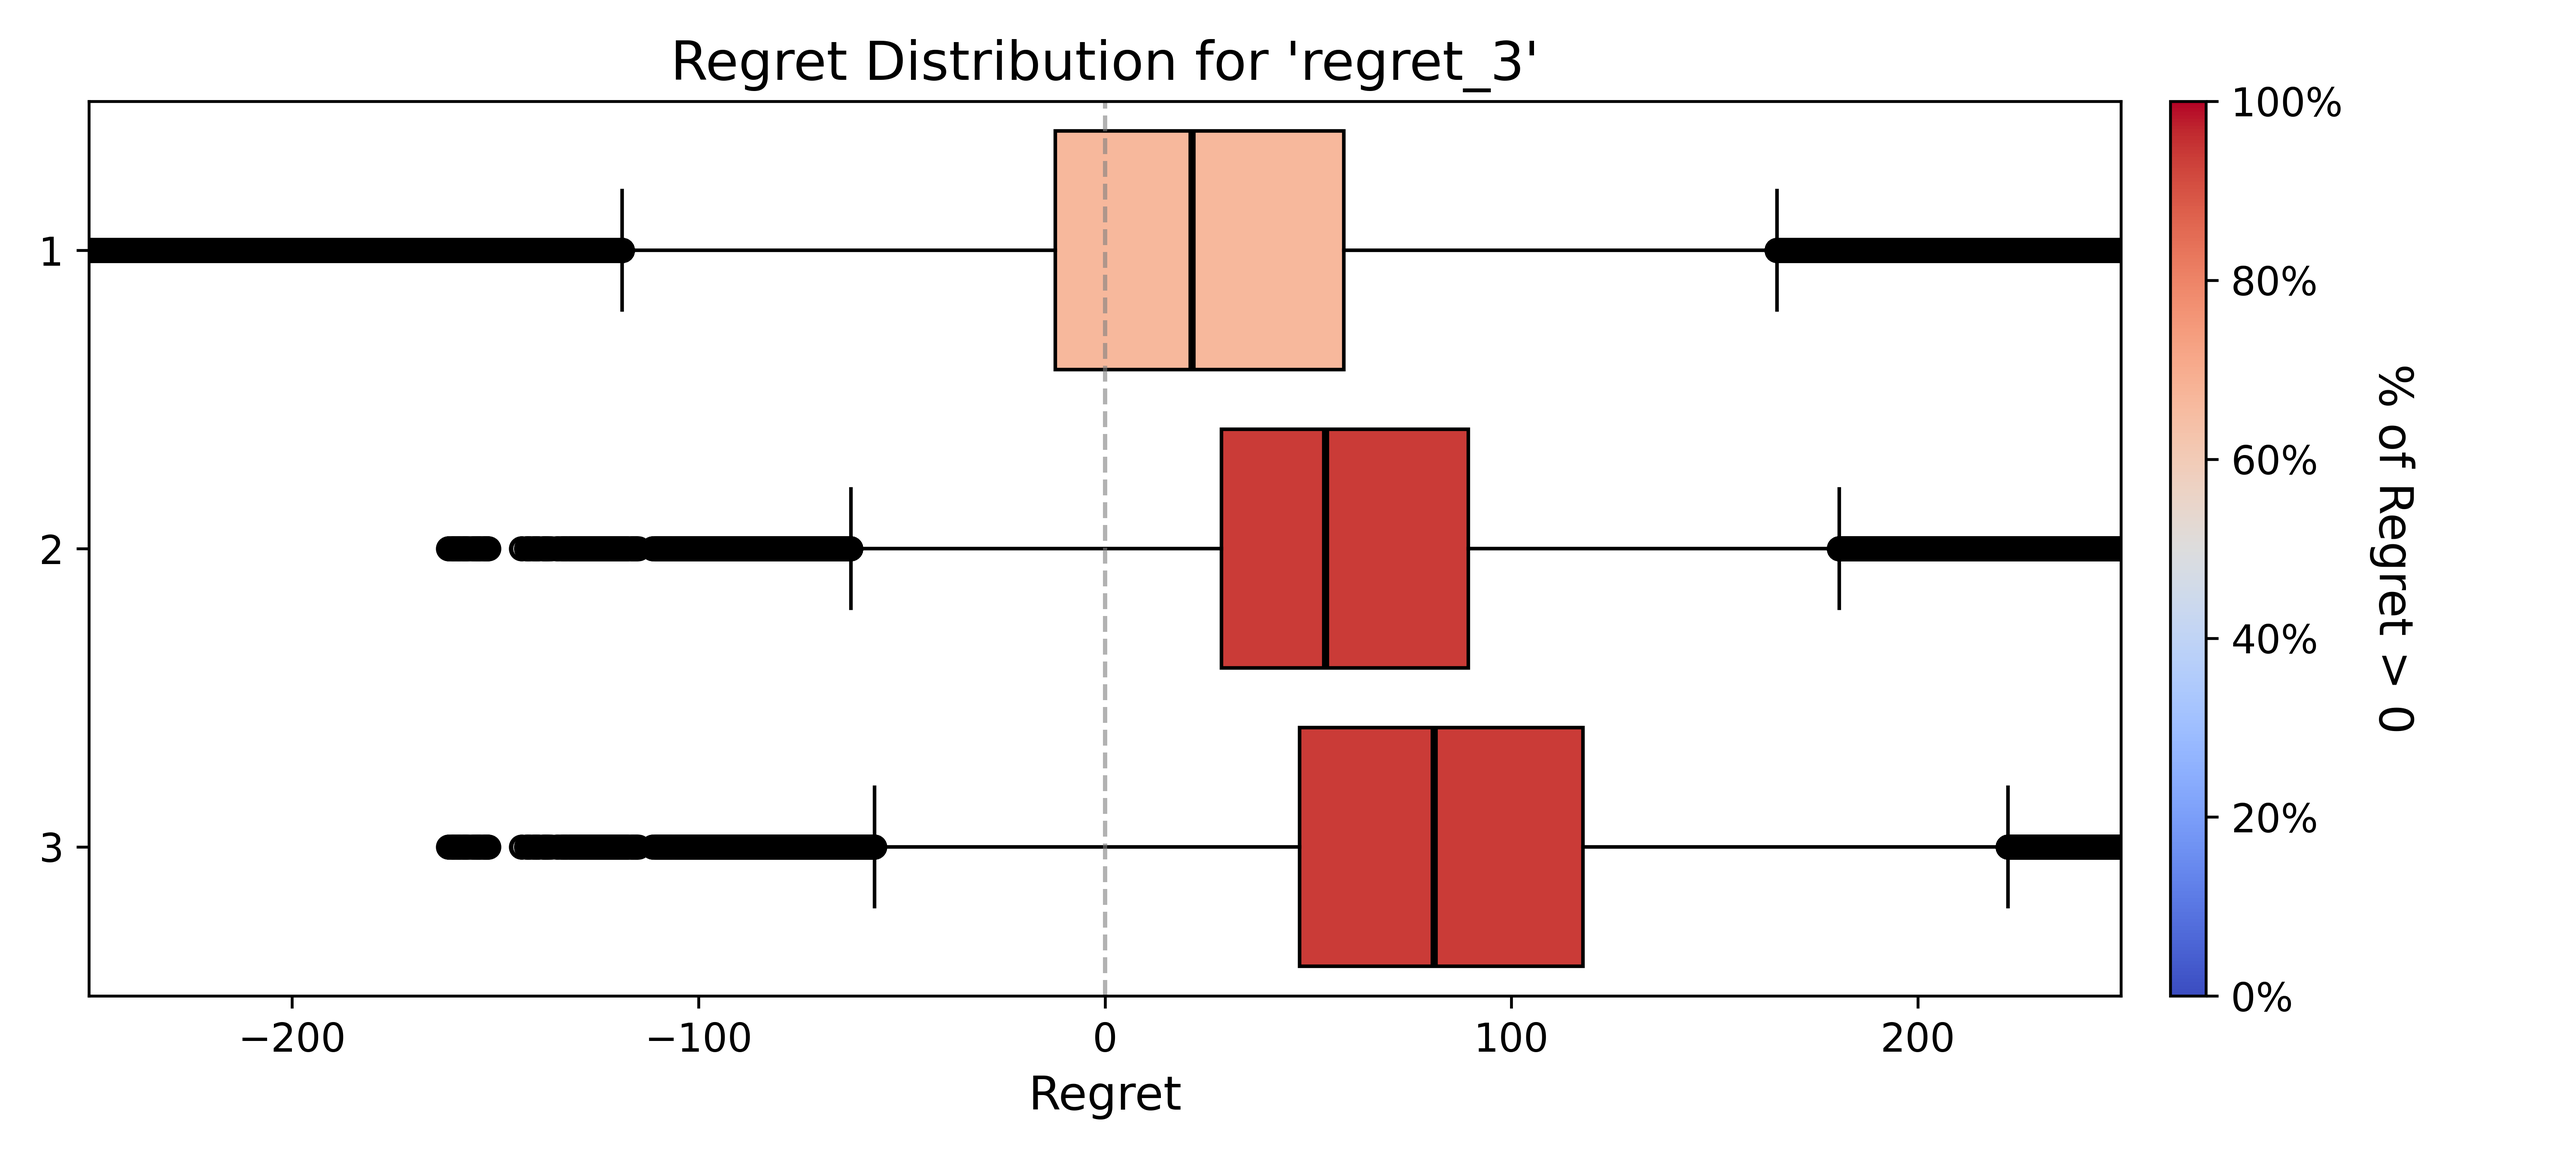
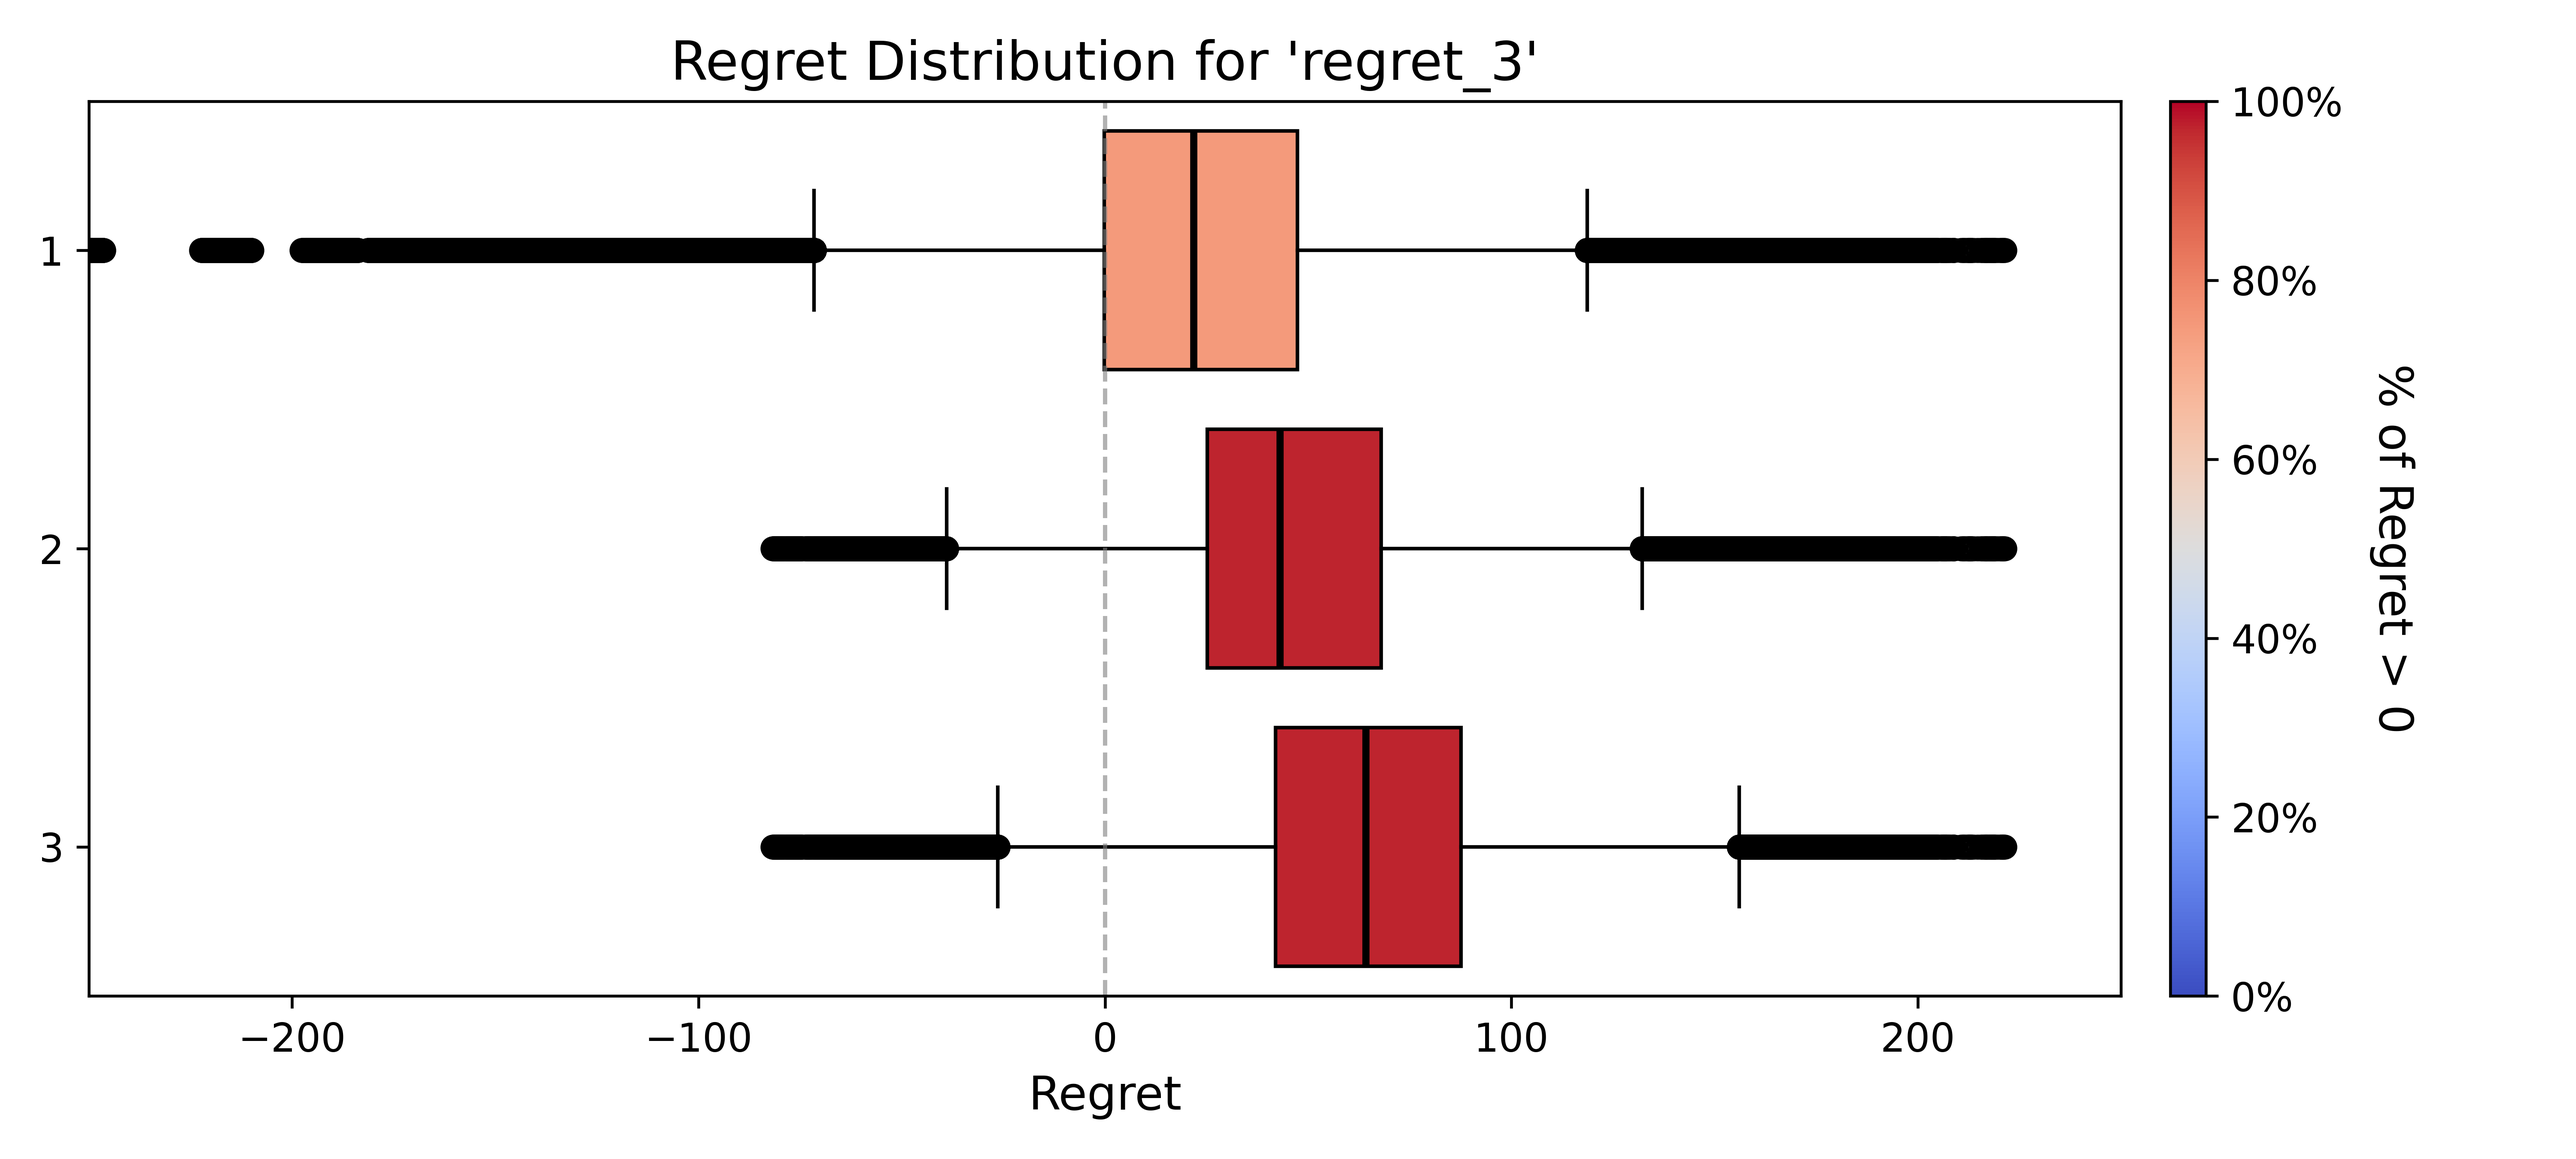
Amines are often regrettable now...

diff --git a/controller.py b/controller.py
@@ -27,7 +27,7 @@ model.uncertainties = [
     RealParameter("O2eff", 0.80, 0.95),     # [-] for CLC Check referenes with Magnus
     # RealParameter("Wasu", 800, 900),        # MJ/tO2 (converted from 230*3.6, Macroscopic or Lyngfelt or Ramboll)
     RealParameter("dTlm", 350, 530),          # [C] Crafoord & Lewenhaupt, 2025
-    RealParameter("U", 50, 50),                 # W/m2K Casarosa, 2004
+    RealParameter("U", 40, 50),                 # W/m2K Casarosa, 2004
 
     RealParameter("operating", 4000, 5000), # Operating hours
     RealParameter("dr", 0.05, 0.10),        # Discount rate

diff --git a/controller_sobol.py b/controller_sobol.py
@@ -27,7 +27,7 @@ model.uncertainties = [
     RealParameter("O2eff", 0.80, 0.95),     # [-] for CLC Check referenes with Magnus
     # RealParameter("Wasu", 800, 900),        # MJ/tO2 (converted from 230*3.6, Macroscopic or Lyngfelt or Ramboll)
     RealParameter("dTlm", 350, 530),          # [C] Crafoord & Lewenhaupt, 2025
-    RealParameter("U", 50, 50),                 # W/m2K Casarosa, 2004
+    RealParameter("U", 40, 50),                 # W/m2K Casarosa, 2004
 
     RealParameter("operating", 4000, 5000), # Operating hours
     RealParameter("dr", 0.05, 0.10),        # Discount rate
